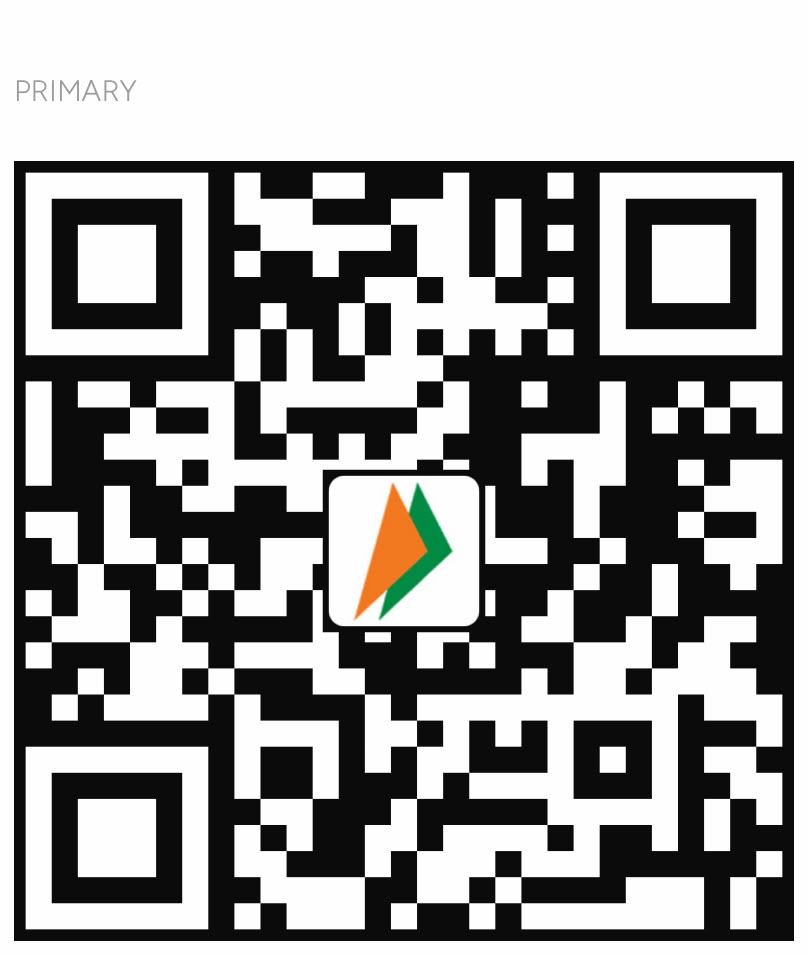
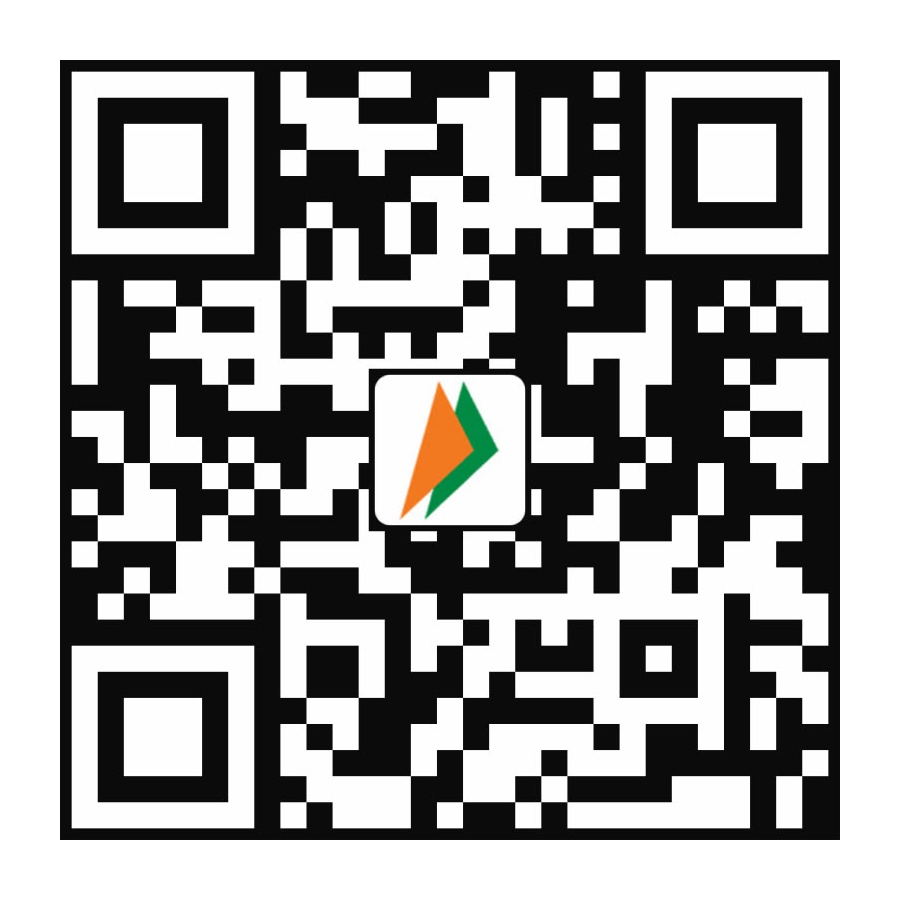
fix: restore QR scan accuracy with quiet zone padding and add official/dynamic QR switch

diff --git a/src/components/portfolio/donation-drawer.tsx b/src/components/portfolio/donation-drawer.tsx
@@ -34,7 +34,7 @@ import {
   Copy,
   Download,
   X,
-  RefreshCw
+  Image as ImageIcon
 } from "lucide-react"
 
 interface DonationTier {
@@ -85,6 +85,7 @@ export function DonationDrawer() {
   const [selectedTier, setSelectedTier] = useState<string>("gpu")
   const [customAmount, setCustomAmount] = useState<string>("")
   const [currency, setCurrency] = useState<"USD" | "INR">("USD")
+  const [qrMode, setQrMode] = useState<"official" | "dynamic">("official")
   const [supporterName, setSupporterName] = useState<string>("")
   const [message, setMessage] = useState<string>("")
   const [copiedUpi, setCopiedUpi] = useState(false)
@@ -122,15 +123,22 @@ export function DonationDrawer() {
   // Dynamic Transaction Note for UPI
   const upiNote = supporterName ? `Sponsor by ${supporterName}` : "Portfolio Sponsor"
 
-  // Generate dynamic custom UPI Payment URI with prefilled amount
+  // Standard NPCI Compliant UPI Payment URI
+  const standardUpiUri = `upi://pay?pa=${donationLinks.upiId}&pn=${encodeURIComponent(donationLinks.recipientName)}&cu=INR`
+  
+  // Dynamic UPI Payment URI with prefilled amount
   const dynamicUpiUri = activeAmountINR > 0
     ? `upi://pay?pa=${donationLinks.upiId}&pn=${encodeURIComponent(donationLinks.recipientName)}&am=${activeAmountINR}&cu=INR&tn=${encodeURIComponent(upiNote)}`
-    : `upi://pay?pa=${donationLinks.upiId}&pn=${encodeURIComponent(donationLinks.recipientName)}&cu=INR`
+    : standardUpiUri
   
-  // Dynamic scannable QR Code image generated in real-time
-  const dynamicQrImageUrl = activeAmountINR > 0
-    ? `https://api.qrserver.com/v1/create-qr-code/?size=280x280&data=${encodeURIComponent(dynamicUpiUri)}&margin=6`
-    : "/upi-qr.png"
+  // Base QR code image (Cleaned official image with white quiet zone)
+  const officialQrImageUrl = `${import.meta.env.BASE_URL || "/"}upi-qr.png`.replace(/\/\//g, "/")
+  
+  // Dynamic Real-Time generated QR Code
+  const dynamicQrImageUrl = `https://api.qrserver.com/v1/create-qr-code/?size=300x300&data=${encodeURIComponent(dynamicUpiUri)}&margin=8`
+
+  // Selected QR code URL to display
+  const activeQrImageUrl = qrMode === "official" ? officialQrImageUrl : dynamicQrImageUrl
 
   // Check if visitor previously dismissed the floating pill
   useEffect(() => {
@@ -380,7 +388,7 @@ export function DonationDrawer() {
               <div className="bg-slate-900/70 p-3.5 rounded-xl border border-slate-800 space-y-2">
                 <div className="flex items-center justify-between">
                   <label className="text-xs font-semibold text-gray-300 font-mono">
-                    Custom Amount (Generates Real-time QR):
+                    Custom Amount (Auto-Configures QR):
                   </label>
                   <div className="flex bg-slate-950 p-0.5 rounded-lg border border-slate-800">
                     <button
@@ -443,7 +451,7 @@ export function DonationDrawer() {
                 </p>
               </Card>
 
-              {/* UPI Card with Dynamic Amount QR Code */}
+              {/* UPI Card with Direct QR Code View */}
               <div className="p-4 bg-slate-900/90 rounded-xl border border-accent/25 shadow-lg space-y-3">
                 <div className="flex items-center justify-between">
                   <div className="flex items-center gap-2">
@@ -455,7 +463,7 @@ export function DonationDrawer() {
                     </span>
                   </div>
                   <Badge variant="outline" className="text-[10px] font-mono border-emerald-500/40 text-emerald-400 bg-emerald-500/10">
-                    Auto-Prefills ₹{activeAmountINR}
+                    Instant (0% Fee)
                   </Badge>
                 </div>
 
@@ -497,27 +505,49 @@ export function DonationDrawer() {
                     }`}
                   >
                     {showQrCode ? <EyeOff className="h-3.5 w-3.5 mr-1.5" /> : <Eye className="h-3.5 w-3.5 mr-1.5" />}
-                    {showQrCode ? "Hide QR" : `View QR (₹${activeAmountINR})`}
+                    {showQrCode ? "Hide QR" : `View QR Code`}
                   </Button>
                 </div>
 
-                {/* Expandable Real-Time QR Code Box */}
+                {/* Expandable Scannable QR Code Box */}
                 {showQrCode && (
                   <div className="pt-3 border-t border-slate-800 animate-in fade-in-50 zoom-in-95 duration-200">
                     <div className="bg-slate-950 p-4 rounded-xl border border-accent/20 flex flex-col items-center text-center">
                       
-                      {/* Dynamic Amount Banner */}
-                      <div className="mb-3 px-3 py-1 bg-pink-500/15 border border-pink-500/30 rounded-full text-xs font-mono text-pink-300 flex items-center gap-1.5">
-                        <Sparkles className="h-3.5 w-3.5 text-pink-400" />
-                        <span>Pre-configured Amount: <strong>₹{activeAmountINR}</strong></span>
+                      {/* QR Version Selector (Official Bank QR vs Dynamic Amount QR) */}
+                      <div className="flex bg-slate-900 p-1 rounded-xl border border-slate-800 mb-3.5 w-full max-w-xs">
+                        <button
+                          type="button"
+                          onClick={() => setQrMode("official")}
+                          className={`flex-1 py-1.5 text-xs font-mono rounded-lg transition-smooth flex items-center justify-center gap-1.5 ${
+                            qrMode === "official"
+                              ? "bg-accent text-primary font-bold shadow"
+                              : "text-gray-400 hover:text-white"
+                          }`}
+                        >
+                          <ImageIcon className="h-3.5 w-3.5" />
+                          Official Bank QR
+                        </button>
+                        <button
+                          type="button"
+                          onClick={() => setQrMode("dynamic")}
+                          className={`flex-1 py-1.5 text-xs font-mono rounded-lg transition-smooth flex items-center justify-center gap-1.5 ${
+                            qrMode === "dynamic"
+                              ? "bg-accent text-primary font-bold shadow"
+                              : "text-gray-400 hover:text-white"
+                          }`}
+                        >
+                          <Zap className="h-3.5 w-3.5" />
+                          Auto-Amount QR
+                        </button>
                       </div>
 
-                      {/* Scannable Real-time QR */}
-                      <div className="p-3 bg-white rounded-2xl shadow-xl mb-3 ring-4 ring-accent/20 relative group">
+                      {/* Scannable High-Res QR with Quiet Zone */}
+                      <div className="p-3 bg-white rounded-2xl shadow-2xl mb-3 ring-4 ring-accent/25 relative group">
                         <img
-                          src={dynamicQrImageUrl}
-                          alt={`Custom UPI QR Code for ₹${activeAmountINR} to ${donationLinks.upiId}`}
-                          className="w-48 h-48 sm:w-52 sm:h-52 object-contain rounded-lg transition-all duration-300"
+                          src={activeQrImageUrl}
+                          alt={`UPI QR Code for ${donationLinks.upiId}`}
+                          className="w-48 h-48 sm:w-56 sm:h-56 object-contain rounded-lg transition-all duration-300"
                           loading="eager"
                         />
                       </div>
@@ -527,7 +557,9 @@ export function DonationDrawer() {
                           <Smartphone className="h-3.5 w-3.5 text-accent" /> Scan with Any UPI App
                         </div>
                         <p className="text-[11px] text-gray-400">
-                          Automatically opens GPay / PhonePe / Paytm with <strong>₹{activeAmountINR}</strong> pre-filled!
+                          {qrMode === "dynamic"
+                            ? `Pre-configured with ₹${activeAmountINR} for Google Pay, PhonePe, Paytm, BHIM, Cred.`
+                            : `Official UPI QR for ${donationLinks.upiId} — enter any amount upon scanning.`}
                         </p>
                       </div>
 
@@ -538,9 +570,9 @@ export function DonationDrawer() {
                           size="sm"
                           className="bg-accent text-primary hover:bg-accent/90 text-xs font-mono font-semibold h-8"
                         >
-                          <a href={dynamicUpiUri}>
+                          <a href={qrMode === "dynamic" ? dynamicUpiUri : standardUpiUri}>
                             <Smartphone className="h-3.5 w-3.5 mr-1.5" />
-                            Pay ₹{activeAmountINR}
+                            {qrMode === "dynamic" ? `Pay ₹${activeAmountINR}` : "Open App"}
                           </a>
                         </Button>
                         <Button
@@ -549,7 +581,12 @@ export function DonationDrawer() {
                           size="sm"
                           className="border-slate-700 text-gray-300 hover:text-white text-xs font-mono h-8"
                         >
-                          <a href={dynamicQrImageUrl} target="_blank" rel="noopener noreferrer" download={`upi-qr-${activeAmountINR}.png`}>
+                          <a
+                            href={activeQrImageUrl}
+                            target="_blank"
+                            rel="noopener noreferrer"
+                            download={`vedant-upi-qr-${qrMode}.png`}
+                          >
                             <Download className="h-3.5 w-3.5 mr-1.5" />
                             Save QR
                           </a>
